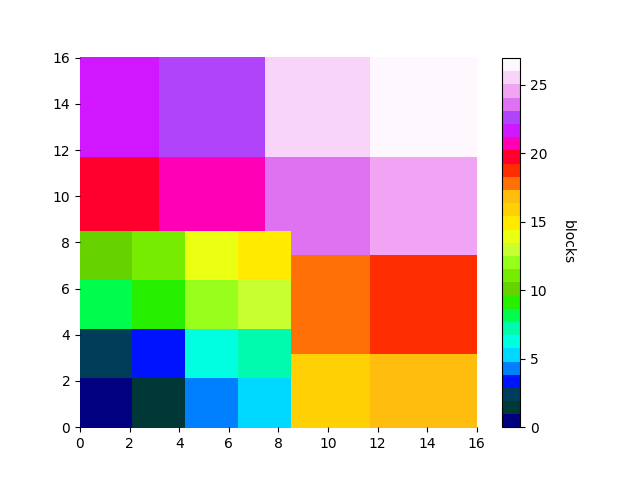
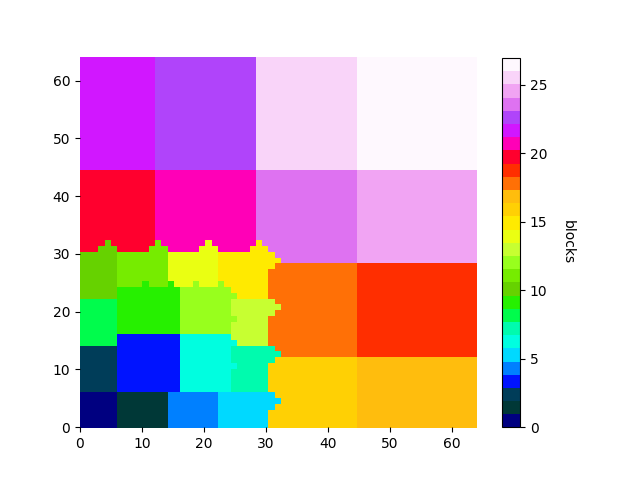
fix neighs

diff --git a/src/grid/grid.cpp b/src/grid/grid.cpp
@@ -852,7 +852,7 @@ void BlockedLinearTree::BuildNeighs() {
             BlockOfCells* possible_neigh = find_block(possible_neigh_idx);
             // cout << "BN " << i << " h13 idx=" << possible_neigh_idx.get_global_number() << std::endl;
             if (possible_neigh != nullptr) {
-                blocks[i].neighs_left = find_block_children(possible_neigh->idx, Neigh::RIGHT);
+                blocks[i].neighs_left = find_block_children(possible_neigh_idx, Neigh::RIGHT);
             }
             // cout << "BN " << i << " h14\n";
         }
@@ -862,7 +862,7 @@ void BlockedLinearTree::BuildNeighs() {
             TreeIndex possible_neigh_idx = blocks[i].idx.get_face_neighbor(Neigh::RIGHT);
             BlockOfCells* possible_neigh = find_block(possible_neigh_idx);
             if (possible_neigh != nullptr) {
-                blocks[i].neighs_right = find_block_children(possible_neigh->idx, Neigh::LEFT);
+                blocks[i].neighs_right = find_block_children(possible_neigh_idx, Neigh::LEFT);
             }
         }
 
@@ -871,20 +871,51 @@ void BlockedLinearTree::BuildNeighs() {
             TreeIndex possible_neigh_idx = blocks[i].idx.get_face_neighbor(Neigh::UP);
             BlockOfCells* possible_neigh = find_block(possible_neigh_idx);
             if (possible_neigh != nullptr) {
-                blocks[i].neighs_upper = find_block_children(possible_neigh->idx, Neigh::DOWN);
+                blocks[i].neighs_upper = find_block_children(possible_neigh_idx, Neigh::DOWN);
             }
         }
 
         // cout << "BN " << i << " h3\n";
         if (!blocks[i].idx.is_down_border()) {
             TreeIndex possible_neigh_idx = blocks[i].idx.get_face_neighbor(Neigh::DOWN);
+            if (blocks[i].idx.get_global_number() == GlobalNumber_t(2048)) {
+                cout << "For 2048 down: " << possible_neigh_idx.get_global_number() << " " << possible_neigh_idx.lvl << endl;
+            }
             BlockOfCells* possible_neigh = find_block(possible_neigh_idx);
+            if (blocks[i].idx.get_global_number() == GlobalNumber_t(2048)) {
+                cout << "find(512) = " << possible_neigh << endl;
+            }
             if (possible_neigh != nullptr) {
-                blocks[i].neighs_down = find_block_children(possible_neigh->idx, Neigh::UP);
+                blocks[i].neighs_down = find_block_children(possible_neigh_idx, Neigh::UP);
             }
         }
 
     }
+
+    // for (BlockOfCells& blk: blocks) {
+    //     // cout << "h1\n";
+    //     cout << blk.idx.get_global_number() << " {";
+    //     for (BlockOfCells *b_ptr: blk.neighs_down) {
+    //         cout << b_ptr->idx.get_global_number() << ",";
+    //     }
+    //     cout << "} ";
+    //     // cout << "h1\n";
+    //     cout << blk.idx.get_global_number() << " {";
+    //     for (BlockOfCells *b_ptr: blk.neighs_upper) {
+    //         cout << b_ptr->idx.get_global_number() << ",";
+    //     }
+    //     cout << "} ";
+    //     cout << blk.idx.get_global_number() << " {";
+    //     for (BlockOfCells *b_ptr: blk.neighs_left) {
+    //         cout << b_ptr->idx.get_global_number() << ",";
+    //     }
+    //     cout << "} ";
+    //     cout << blk.idx.get_global_number() << " {";
+    //     for (BlockOfCells *b_ptr: blk.neighs_right) {
+    //         cout << b_ptr->idx.get_global_number() << ",";
+    //     }
+    //     cout << "} \n";
+    // }
 
     // cout << "BN " << " h4\n";
     for (int i = 0; i < blocks.size(); i++) {
@@ -917,6 +948,29 @@ void BlockedLinearTree::BuildNeighs() {
                 b_ptr->neighs_upper.insert(b_ptr->neighs_upper.begin(), &blocks[i]);
             }
         }
+    }
+
+    for (BlockOfCells& blk: blocks) {
+        cout << blk.idx.get_global_number() << " {";
+        for (BlockOfCells *b_ptr: blk.neighs_down) {
+            cout << b_ptr->idx.get_global_number() << ",";
+        }
+        cout << "} ";
+        cout << blk.idx.get_global_number() << " {";
+        for (BlockOfCells *b_ptr: blk.neighs_upper) {
+            cout << b_ptr->idx.get_global_number() << ",";
+        }
+        cout << "} ";
+        cout << blk.idx.get_global_number() << " {";
+        for (BlockOfCells *b_ptr: blk.neighs_left) {
+            cout << b_ptr->idx.get_global_number() << ",";
+        }
+        cout << "} ";
+        cout << blk.idx.get_global_number() << " {";
+        for (BlockOfCells *b_ptr: blk.neighs_right) {
+            cout << b_ptr->idx.get_global_number() << ",";
+        }
+        cout << "} \n";
     }
 
     cout << "built neighs\n";
@@ -971,21 +1025,30 @@ BlockOfCells* BlockedLinearTree::find_block(GlobalNumber_t target) {
 vector<BlockOfCells*> BlockedLinearTree::find_block_children(TreeIndex target, Neigh n) {
 
     // cout << "find_block_children( (" << target.lvl << "," << target.i << "," << target.j << "), " << n <<  ")" << endl;
+    cout << "find_block_children(" << target.get_global_number() << ")" << endl;
 
-    vector<BlockOfCells*> res_list;
+    vector<TreeIndex> res_idxs;
+    res_idxs.push_back(target);
 
-    BlockOfCells *t_blk = find_block(target);
-    res_list.push_back(t_blk);
     int changed = 1;
     while (changed) {
         changed = 0;
 
         int i = 0;
-        while (i < res_list.size()) {
+        while (i < res_idxs.size()) {
+            TreeIndex cur_idx = res_idxs[i];
+
             // cout << res_list[i].idx << endl;
-            if (res_list[i]->idx.lvl == max_present_blk_lvl) {
+            if (cur_idx.lvl == max_present_blk_lvl) {
                 i++;
                 continue;
+            }
+
+            if (cur_idx.get_global_number() == GlobalNumber_t(3328)) {
+                for (TreeIndex ii: res_idxs) {
+                    cout << "  " << ii.get_global_number();
+                }
+                cout << endl;
             }
 
             // find two needed children
@@ -1000,20 +1063,22 @@ vector<BlockOfCells*> BlockedLinearTree::find_block_children(TreeIndex target, N
                 ch1 = Child::cLD; ch2 = Child::cRD;
             }
 
-            GlobalNumber_t t1 = res_list[i]->idx.get_child(ch1).get_global_number();
-            GlobalNumber_t t2 = res_list[i]->idx.get_child(ch2).get_global_number();
+            GlobalNumber_t t1 = cur_idx.get_child(ch1).get_global_number();
+            GlobalNumber_t t2 = cur_idx.get_child(ch2).get_global_number();
 
-            BlockOfCells *b1, *b2;
+            BlockOfCells *b1 = nullptr, *b2 = nullptr;
             b1 = find_block(t1);
             b2 = find_block(t2);
 
+            if (target.get_global_number() == GlobalNumber_t(512)) {
+                cout << "For 512: " << cur_idx.get_global_number() << " " << t1 << " " << t2 << ";" << b1 << " " << b2 << endl;
+            }
+
             // update children list
             if (b1 && b2) {
-                // list<BlockOfCells*>::iterator itr = res_list.begin();
-                // std::advance(itr, i);
-                res_list.erase(res_list.begin()+i);
-                res_list.insert(res_list.begin()+i, b2);
-                res_list.insert(res_list.begin()+i, b1);
+                res_idxs.erase(res_idxs.begin()+i);
+                res_idxs.insert(res_idxs.begin()+i, cur_idx.get_child(ch2));
+                res_idxs.insert(res_idxs.begin()+i, cur_idx.get_child(ch1));
 
                 changed = 1;
                 i += 2;
@@ -1023,7 +1088,13 @@ vector<BlockOfCells*> BlockedLinearTree::find_block_children(TreeIndex target, N
         }
     }
 
-    vector<BlockOfCells*> res(res_list.begin(), res_list.end());
+    vector<BlockOfCells*> res;
+    for (TreeIndex idx: res_idxs) {
+        cout << "1";
+        res.push_back(find_block(idx));
+    }
+    cout << res.size() << endl;
+
     return res;
 }
 
@@ -1240,49 +1311,50 @@ vector<char> BlockedLinearTree::GenWriteBlocksStruct() {
 
         // left neighs
         for (int i = 0; i < pow(2, max_blk_lvl-base_blk_lvl); i++) {
-            GlobalNumber_t _neigh(0);
+            GlobalNumber_t _neigh(-1);
             if (i < blocks[blk_i].neighs_left.size()) {
                 _neigh = blocks[blk_i].neighs_left[i]->idx.get_global_number();
             }
             tmp = (char *)(&_neigh);
-            for (int i = 0; i < sizeof(GlobalNumber_t); i++) {
-                buf.push_back(tmp[i]);
+            for (int j = 0; j < sizeof(GlobalNumber_t); j++) {
+                buf.push_back(tmp[j]);
             }
         }
 
         // right neighs
         for (int i = 0; i < pow(2, max_blk_lvl-base_blk_lvl); i++) {
-            GlobalNumber_t _neigh(0);
+            GlobalNumber_t _neigh(-1);
             if (i < blocks[blk_i].neighs_right.size()) {
                 _neigh = blocks[blk_i].neighs_right[i]->idx.get_global_number();
             }
             tmp = (char *)(&_neigh);
-            for (int i = 0; i < sizeof(GlobalNumber_t); i++) {
-                buf.push_back(tmp[i]);
+            for (int j = 0; j < sizeof(GlobalNumber_t); j++) {
+                buf.push_back(tmp[j]);
             }
         }
 
         // upper neighs
         for (int i = 0; i < pow(2, max_blk_lvl-base_blk_lvl); i++) {
-            GlobalNumber_t _neigh(0);
+            GlobalNumber_t _neigh(-1);
             if (i < blocks[blk_i].neighs_upper.size()) {
                 _neigh = blocks[blk_i].neighs_upper[i]->idx.get_global_number();
             }
             tmp = (char *)(&_neigh);
-            for (int i = 0; i < sizeof(GlobalNumber_t); i++) {
-                buf.push_back(tmp[i]);
+            for (int j = 0; j < sizeof(GlobalNumber_t); j++) {
+                buf.push_back(tmp[j]);
             }
         }
 
         // down neighs
         for (int i = 0; i < pow(2, max_blk_lvl-base_blk_lvl); i++) {
-            GlobalNumber_t _neigh(0);
+            GlobalNumber_t _neigh(-1);
             if (i < blocks[blk_i].neighs_down.size()) {
                 _neigh = blocks[blk_i].neighs_down[i]->idx.get_global_number();
             }
+            cout << "***writing down_neigh " << _neigh << endl;
             tmp = (char *)(&_neigh);
-            for (int i = 0; i < sizeof(GlobalNumber_t); i++) {
-                buf.push_back(tmp[i]);
+            for (int j = 0; j < sizeof(GlobalNumber_t); j++) {
+                buf.push_back(tmp[j]);
             }
         }
     }
@@ -1332,6 +1404,7 @@ void BlockedLinearTree::GenFromWriteBlocksStruct(vector<char> buf, double (*star
     max_present_blk_lvl = base_blk_lvl;
 
     int n_neighs = pow(2, max_blk_lvl-base_blk_lvl);
+    cout << "n_neighs=" << n_neighs << endl;
     int one_sz = 5 * sizeof(int) + 4 * n_neighs * sizeof(GlobalNumber_t);
 
     char *p = &buf[0];
@@ -1342,7 +1415,7 @@ void BlockedLinearTree::GenFromWriteBlocksStruct(vector<char> buf, double (*star
     int j_offset     = 2 * sizeof(int);
     int c_lvl_offset = 3 * sizeof(int);
     int sz_offset    = 4 * sizeof(int);
-    int left_offset  = sz_offset    + n_neighs * sizeof(GlobalNumber_t);
+    int left_offset  = sz_offset    + sizeof(int);
     int right_offset = left_offset  + n_neighs * sizeof(GlobalNumber_t);
     int upper_offset = right_offset + n_neighs * sizeof(GlobalNumber_t);
     int down_offset  = upper_offset + n_neighs * sizeof(GlobalNumber_t);
@@ -1360,34 +1433,48 @@ void BlockedLinearTree::GenFromWriteBlocksStruct(vector<char> buf, double (*star
         BlockOfCells blk(idx, cells_lvl, sz);
         blk.CreateCells(start_func);
 
+        cout << blk.idx.get_global_number() << "  ";
+
         GlobalNumber_t tmp(0);
+        // cout << "reading left neighs... ";
         for (int j = 0; j < n_neighs; j++) {
             tmp = * ((GlobalNumber_t *)(&p[pos+left_offset+j* sizeof(GlobalNumber_t)]));
-            if (tmp != 0) {
+            // cout << tmp << " ";
+            if (tmp != -1) {
                 blk.neighs_left_idxs.push_back(tmp);
             }
         }
+        // cout << "|";
 
+        // cout << "reading right neighs... ";
         for (int j = 0; j < n_neighs; j++) {
             tmp = * ((GlobalNumber_t *)(&p[pos+right_offset+j* sizeof(GlobalNumber_t)]));
-            if (tmp != 0) {
+            // cout << tmp << " ";
+            if (tmp != -1) {
                 blk.neighs_right_idxs.push_back(tmp);
             }
         }
+        cout << endl;
 
         for (int j = 0; j < n_neighs; j++) {
             tmp = * ((GlobalNumber_t *)(&p[pos+upper_offset+j* sizeof(GlobalNumber_t)]));
-            if (tmp != 0) {
+            if (tmp != -1) {
                 blk.neighs_upper_idxs.push_back(tmp);
             }
         }
 
+        cout << "reading down neighs... ";
         for (int j = 0; j < n_neighs; j++) {
             tmp = * ((GlobalNumber_t *)(&p[pos+down_offset+j* sizeof(GlobalNumber_t)]));
-            if (tmp != 0) {
+            cout << tmp << " ";
+            if (tmp != -1) {
                 blk.neighs_down_idxs.push_back(tmp);
             }
         }
+        cout << endl;
+
+        cout << " BlockOfCells created {" << blk.idx.get_global_number() << ", " 
+            << blk.cells_lvl << "," <<  blk.sz << "; " << blk.cells.size() << "; " << blk.neighs_down_idxs.size() << "}\n";
 
         blocks.push_back(blk);
 

diff --git a/src/proc/proc.cpp b/src/proc/proc.cpp
@@ -102,7 +102,7 @@ int Proc::InitMesh(string offsets_filename, string blocks_filename, double (*sta
 
     MPI_File fh;
     MPI_File_open( mpiInfo.comm, offsets_filename.c_str(), MPI_MODE_RDONLY, MPI_INFO_NULL, &fh);
-    MPI_File_read_at(fh, 2 * mpiInfo.comm_rank * sizeof(int), &range, 2, MPI_INT, MPI_STATUS_IGNORE);
+    MPI_File_read_at(fh, 2 * mpiInfo.comm_rank * sizeof(int), range, 2, MPI_INT, MPI_STATUS_IGNORE);
     MPI_File_close(&fh);
 
     std::cout << mpiInfo.comm_rank << " read range[0]=" << range[0] << " range[1]=" << range[1] << std::endl;
@@ -111,7 +111,7 @@ int Proc::InitMesh(string offsets_filename, string blocks_filename, double (*sta
     std::cout << "will read cells file\n";
 
     MPI_File_open( mpiInfo.comm, blocks_filename.c_str(), MPI_MODE_RDONLY, MPI_INFO_NULL, &fh);
-    MPI_File_read_at(fh, range[0], &buffer[0], range[1]-1, MPI_CHAR, MPI_STATUS_IGNORE);
+    MPI_File_read_at(fh, range[0], &buffer[0], range[1], MPI_CHAR, MPI_STATUS_IGNORE);
     MPI_File_close(&fh);
 
     std::cout << "read cells file buffer.size()=" << buffer.size() << std::endl;
@@ -174,9 +174,27 @@ int Proc::BuildGhosts() {
 
 void Proc::build_fake_ghost_blocks() {
 
+    cout << mpiInfo.comm_rank << " build_fake_ghost_blocks started\n";
+
     // строим списки индексов соседей блоков по процессам
     fake_blocks_out_ids = vector<vector<GlobalNumber_t>>(mpiInfo.comm_size);
     for (int blk_i = 0; blk_i < mesh.blocks.size(); blk_i++) {
+        cout << mpiInfo.comm_rank << " " << mesh.blocks[blk_i].idx.get_global_number() << "  ";
+        // if (mesh.blocks[blk_i].idx.get_global_number() == GlobalNumber_t(1536)) {
+            for (GlobalNumber_t neight_num: mesh.blocks[blk_i].neighs_left_idxs) {
+                cout << mpiInfo.comm_rank << " L: " << neight_num << " ";
+            }
+            for (GlobalNumber_t neight_num: mesh.blocks[blk_i].neighs_right_idxs) {
+                cout << mpiInfo.comm_rank << " R: " << neight_num << " ";
+            }
+            for (GlobalNumber_t neight_num: mesh.blocks[blk_i].neighs_down_idxs) {
+                cout << mpiInfo.comm_rank << " D: " << neight_num << " ";
+            }
+            for (GlobalNumber_t neight_num: mesh.blocks[blk_i].neighs_upper_idxs) {
+                cout << mpiInfo.comm_rank << " U: " << neight_num << " ";
+            }
+            cout << endl;
+        // }
         for (GlobalNumber_t neight_num: mesh.blocks[blk_i].neighs_left_idxs) {
             int o = find_owner(neight_num);
             if (o != mpiInfo.comm_rank) {
@@ -306,6 +324,8 @@ void Proc::build_fake_ghost_blocks() {
                     fake_blocks_in_ids[i][j]);   // idx
         }
     }
+
+    cout << mpiInfo.comm_rank << " build_fake_ghost_blocks finished\n";
 }
 
 void Proc::build_ghost_cells() {
@@ -490,7 +510,7 @@ int Proc::find_owner(GlobalNumber_t cell_id) {
         }
     }
     
-    // std::cout << "owner not found for cell_id=" << cell_id << std::endl;
+    std::cout << "owner not found for cell_id=" << cell_id << std::endl;
     return -1;
 }
 

diff --git a/src/grid/grid.h b/src/grid/grid.h
@@ -196,6 +196,10 @@ struct BlockOfCells {
         cells_lvl = b.cells_lvl; sz = b.sz; refine_mark = b.refine_mark; 
         refine_marks[0] = b.refine_marks[0]; refine_marks[1] = b.refine_marks[1]; 
         refine_marks[2] = b.refine_marks[2]; refine_marks[3] = b.refine_marks[3];
+        neighs_left_idxs = b.neighs_left_idxs;
+        neighs_right_idxs = b.neighs_right_idxs;
+        neighs_upper_idxs = b.neighs_upper_idxs;
+        neighs_down_idxs = b.neighs_down_idxs;
     }
     BlockOfCells& operator=(const BlockOfCells& b) {
         idx = b.idx; i = b.i;
